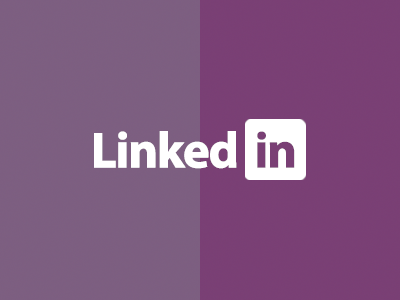
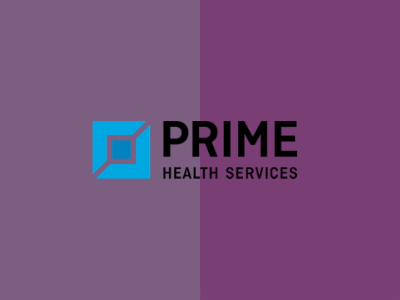
updated page for job hunt

Changed region(s): [[0.21, 0.39, 0.78, 0.6]]

diff --git a/index.html b/index.html
@@ -83,7 +83,6 @@
             <h2 class="scrollpoint sp-effect3">Ryan Dillinger</h2>
             <div class="social-wrapper">
                 <ul class="brands brands-inline hidden-xs scrollpoint sp-effect1">
-                    <li><a target="_blank" href="https://twitter.com/Ry_Dillinger"><i class="fa fa-twitter"></i></a></li>
                     <li><a target="_blank" href="https://github.com/RDilly"><i class="fa fa-github"></i></a></li>
                     <li><a target="_blank" href="https://www.linkedin.com/in/ryan-dillinger/"><i class="fa fa-linkedin"></i></a></li>
                 </ul>       
@@ -122,29 +121,6 @@
                 	<h3>Ryan Dillinger</h3>
                   	<p>I have always had a talent and a passion for writing, theater, and music. This passion helped me to excel in my 10 years in the customer service industry. My fascination with technology led me to begin coding. Software development allows me to utilize my communication and collaboration skills as well as my core creativity skills.</p>      
                     
-                    <div class="tweets" style="padding-bottom: 20px;"><!-- Tweets row --> 
-                        <!-- Tweets slideshow --> 
-                             <div class="media" style="padding-bottom: 20px;">
-                                    <div class="pull-left"><i class="fa fa-twitter"></i></div>
-                                    <div class="media-body">
-                                        <div id="slideshow1" class="carousel slide" data-ride="carousel">
-                                              <div class="carousel-inner">
-                                               <!-- Slideshow item 1 active --> 
-                                                  <div class="item active">
-                                                        <p>Just finished my first React app! <br> Should have it deployed within the next couple days!</p> 
-                                                  </div>
-                                               <!-- Slideshow item 2 -->    
-                                                  <div class="item">
-                                                        <p>Just launched my portfolio page!</p>
-                                                  </div>
-                                              </div>    
-                                         </div>
-                                    </div>
-                             </div>    
-
-
-                       <!-- Tweets slideshow end --> 
-                    </div><!-- Tweets row end --> 
                     <div><p>  </p></div>
                     <div><p>  </p></div>
                </div><!-- Profile description end--> 
@@ -187,7 +163,20 @@
                           </div>
                       	  <span>Began Nashville Software School</span>
                       </div> <!-- BLOG POST 1 - END -->
-                      
+
+                      <div class="event">
+                        <div class="event-info">
+                           <div class="date">2019</div>
+                        </div>
+                          <span>Began First Software Job at Prime Health Services</span>
+                    </div> <!-- BLOG POST 1 - END -->     
+                    
+                    <div class="event">
+                        <div class="event-info">
+                           <div class="date">2020</div>
+                        </div>
+                          <span>Began Working at Olive AI</span>
+                    </div> <!-- BLOG POST 1 - END -->
                   </div><!--timeline-->
               </div><!--col 3 end-->
                
@@ -353,22 +342,13 @@
 					<figure class="scrollpoint sp-effect2">
 						<div><img src="image/ref6.png" alt="img04"></div>
 						<figcaption>
-							<h3>LinkedIn</h3>
-							<a target="_blank" rel="noopener noreferrer" href="https://www.linkedin.com/in/ryan-dillinger/">Show me</a>
+							<h3>Prime Health Services</h3>
+							<a target="_blank" rel="noopener noreferrer" href="https://www.PrimeHealthServices.com">Show me</a>
 						</figcaption>
                     </figure>
-                    <h3>Visit LinkedIn for new projects!</h3>
+                    <h3>Top Down Redesign of Prime Health Services Website</h3>
                 </li>
-                <li>
-					<figure class="scrollpoint sp-effect3">
-						<div><img src="image/globe.png" alt="img04"></div>
-						<figcaption>
-							<h3>Take a Look!</h3>
-							<a target="_blank" rel="noopener noreferrer" href="http://nashville-international-festival.com/">Show me</a>
-						</figcaption>
-                    </figure>
-                    <h3>Nashville International Festival Website</h3>
-				</li>
+
 			</ul>
 	</section>
     <!-- ==========================
@@ -433,7 +413,6 @@
                 <div class="col-sm-12 scrollpoint sp-effect3">
                 
                			<ul class="brands brands-inline">
-                            <li><a target="_blank" href="https://twitter.com/Ry_Dillinger"><i class="fa fa-twitter"></i></a></li>
                             <li><a target="_blank" href="https://github.com/RDilly"><i class="fa fa-github"></i></a></li>
                             <li><a target="_blank" href="https://www.linkedin.com/in/ryan-dillinger/"><i class="fa fa-linkedin"></i></a></li>
                         </ul>  
